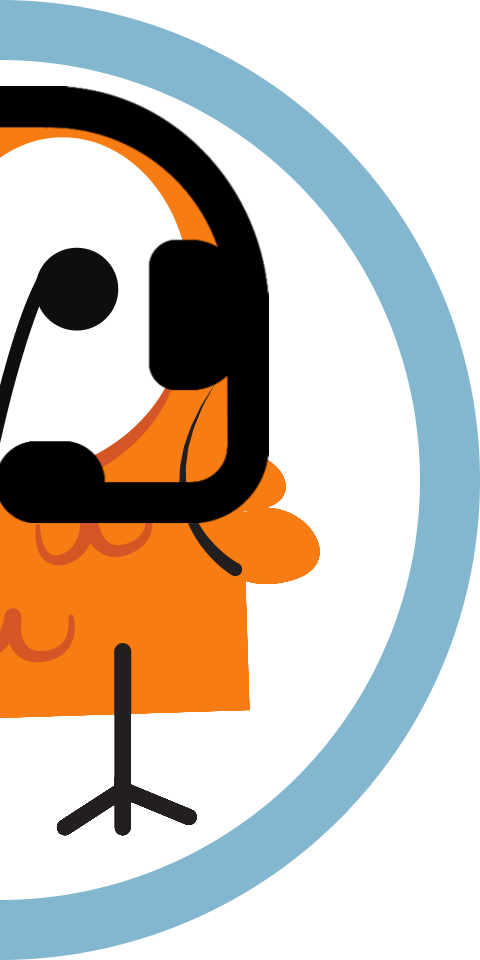
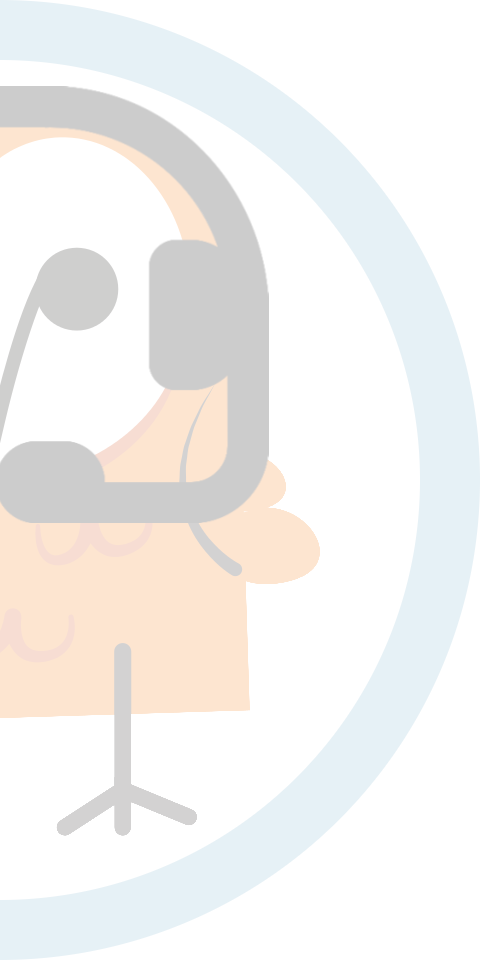
Contact herowl transparency

diff --git a/contact/index.html b/contact/index.html
@@ -382,7 +382,7 @@
     </nav>
 
     <!----- Herowl++ ----->
-    <div class="herowl">
+    <div class="herowl-contact herowl">
       <div class="col-xs-12 col-sm-10 col-lg-10 col-xl-8">
         <div class="card shadow">
           <div class="row flex-lg-row-reverse align-items-center g-0">
